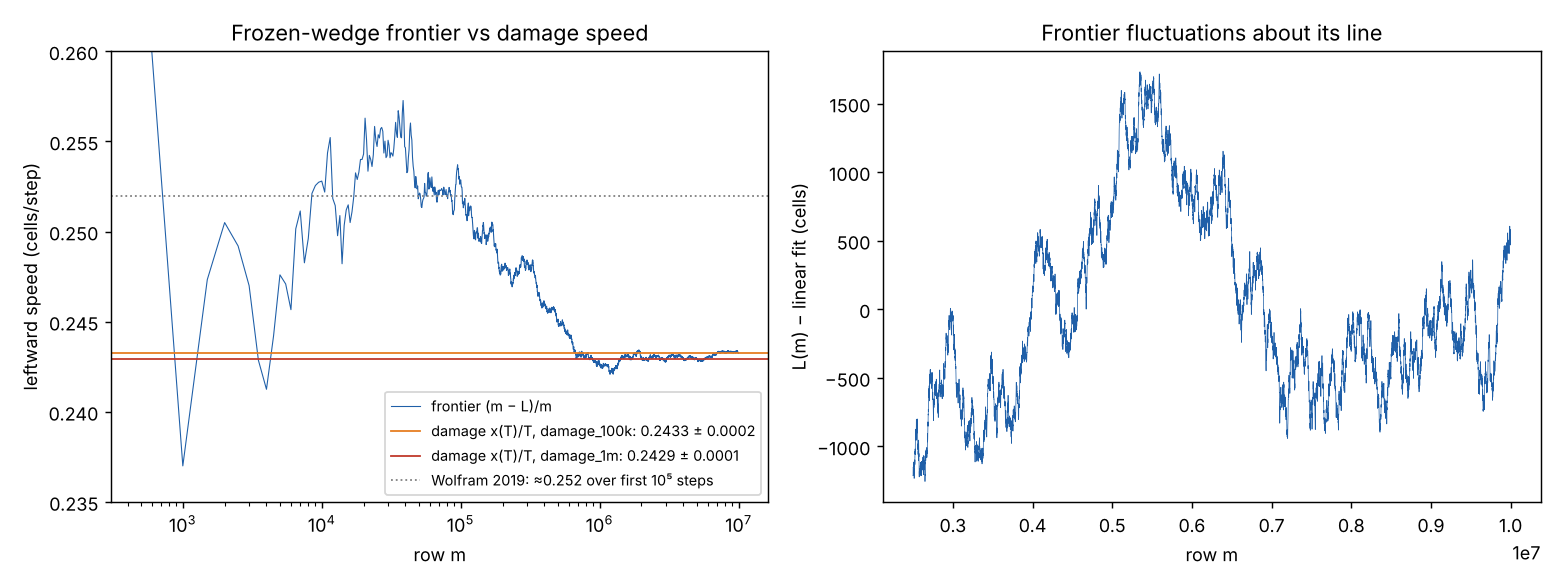
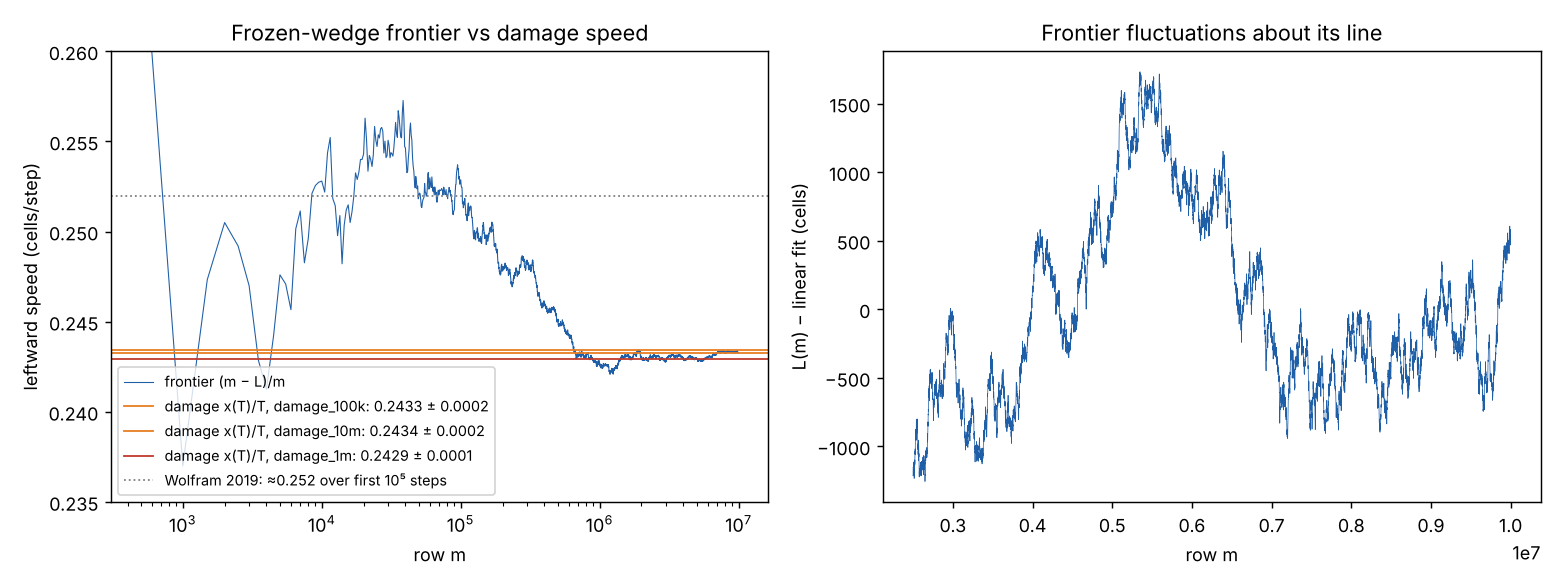
X-File 1c: 1e7-step damage replication matches the frontier
Claude-Session: https://claude.ai/code/session_019ALLvEvbSSVuKfeBUbfDfU

Changed region(s): [[0.0923, 0.5846, 0.4923, 0.8615]]

diff --git a/results/2026-11-02_xfiles3/CASEFILES.md b/results/2026-11-02_xfiles3/CASEFILES.md
@@ -45,7 +45,16 @@ Chart: `frontier_vs_damage.png`. Numbers: `summary.json`. Coordinates as before:
 - Correction, on the record: in the interim report the panel said the damage speed slows with run length and that both speeds shared an early slowdown. Both claims were wrong. The longer data show the damage speed flat in time; only the frontier had the early excess.
 - Wolfram's 0.252 is real, but it is the frontier's early transient, not its asymptotic speed.
 
-**Replication pending (Riker).** 4 seeds × 10⁷ damage steps (`damage_10m/`), to confirm the damage speed at the frontier's own depth.
+**Replication (Riker).** 4 fresh seeds × 10⁷ damage steps (`damage_10m/`, 100 minutes), the frontier's own depth:
+
+| t | 10⁶ | 2×10⁶ | 5×10⁶ | 10⁷ |
+|---|---|---|---|---|
+| x(t)/t, mean of 4 | 0.24344 | 0.24350 | 0.24345 | **0.24342 ± 0.00022** |
+
+- The damage speed is flat from 10⁶ to 10⁷, as it was from 10⁴ to 10⁶.
+- At 10⁷ it equals the frontier's 0.2433–0.2434 to within 0.0001.
+- These 4 seeds sit 0.0005 above the 64-seed 10⁶ mean at every t, including t = 10⁶. That is seed-to-seed scatter (about 1σ for a 4-seed mean), not a trend.
+- Pooled, the left damage speed is 0.2430–0.2434, and the frontier sits inside that range. The finding replicates.
 
 **Questions.**
 - Wesley: what is the early transient? Between 10⁴ and 10⁶ rows the frontier sat up to 1,200 cells left of where the chaos could reach from the origin. Those diagonals are outside the light cone but not yet periodic, so they should be still-settling transients. Test against the transient lengths in OEIS A363346.
